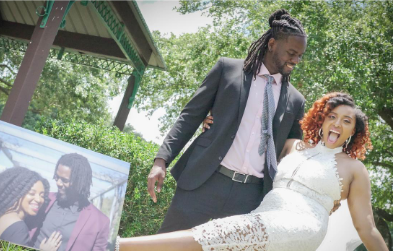
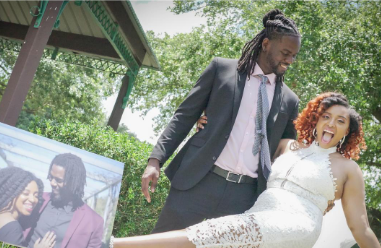
restyled the homepage and added code for the weather api

diff --git a/index.html b/index.html
@@ -29,7 +29,7 @@
 <body style="margin: 0px; padding: 0px;">
    
       <div class="row navSec">
-      <div class="col-md-3 borderBox name"> <h1 style="text-align:center; letter-spacing:15px; font-weight: 700;">Kitrick Bell</h1></div>
+      <div class="col-md-3 borderBox name"> <h1 style="text-align:center; letter-spacing:10px; font-weight: 700;">Kitrick Bell</h1></div>
       <div class="col-md-9 borderBox navColor">
       <nav class="navbar navbar-expand-lg" style="position: relative; padding:14px 16px" >
         <a class="navbar-brand" > </a>
@@ -64,7 +64,9 @@
 <div class="row headerSec">
   
   <div class="col-md-5 myPic borderBox" >
-   <img src="./images/Copy of Untitled.png" class="myImg" alt="">
+ 
+   <img src="./images/kb.png" class="myImg" alt="">
+   
   </div>
 
 
@@ -127,6 +129,31 @@
 <img src="./images/wedding.png" style="width: 100%; height: 100%;" alt="">
  </div>
 </div>
+
+<!---New Section ---------------------->
+<div class="row thirdSec">
+    
+  <div class="col-md-4 education borderBox" >
+    
+ 
+   <h1 style="text-align: center;">Education</h1>
+  </div>
+
+
+  <div class="col-md-5  borderBox" >
+   
+ </div>
+
+
+
+
+ <div class="col-md-3 skills borderBox " >
+<img src="./images/wedding.png" style="width: 100%; height: 100%;" alt="">
+ </div>
+</div>
+
+
+
 
 <!---New Section ---------------------->
 <div class="row thirdSec">

diff --git a/style.css b/style.css
@@ -40,7 +40,7 @@ div.container
     
     background:linear-gradient(to bottom,	var(--fifthCw), white );
     background-size:cover ;
-    
+
 }
 
 .secondSec .cv h1:hover, .secondSec .cv:hover{
@@ -76,14 +76,11 @@ div.container
 }
 
 
-.nameHead{
-    text-align: center;
-    margin: auto;
-}
 
 
 .myImg{
-  
+  width: 500px;
+  height: 100%;
 
 }
 
